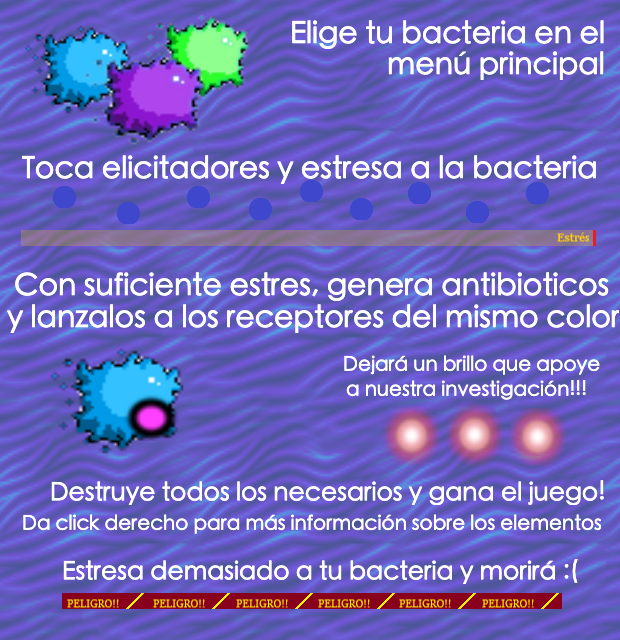
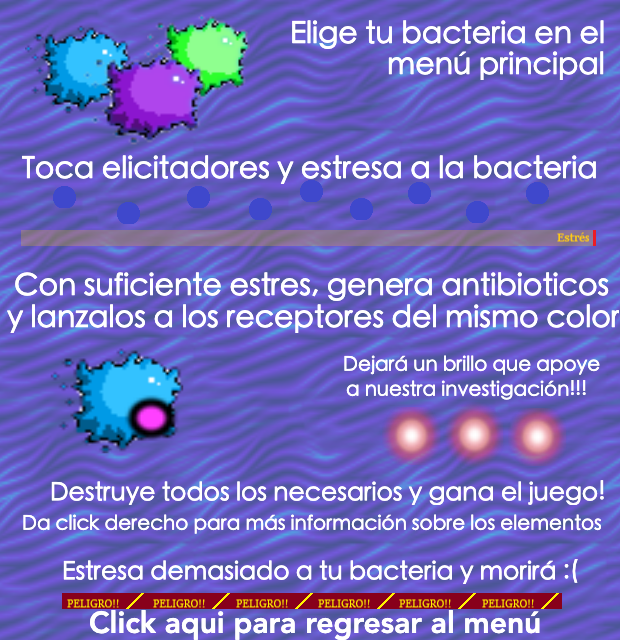
ya sale el tutorial

Changed region(s): [[0.1226, 0.9375, 0.8887, 1.0]]

diff --git a/bacterion/Game.java b/bacterion/Game.java
@@ -57,6 +57,7 @@ public class Game implements Runnable  {
     private boolean finished;
     private boolean startScreen;
     private boolean chooseMenu;
+    private boolean instrucciones;
     
     // to set a delay for the pause button.
     // PAUSE_INTERVAL is the limit (number of frames), pauseStun is the counter.
@@ -111,6 +112,7 @@ public class Game implements Runnable  {
     private void init() {
         startScreen = true;
         chooseMenu = false;
+        instrucciones = false;
         levelSelected = 1;
         display = new Display(title, getWidth(), getHeight());
         display.getJframe().addKeyListener(keyManager);
@@ -449,24 +451,36 @@ public class Game implements Runnable  {
                     }
                 }
                 mouseManager.setIzquierdo(false);
+            } else if (instrucciones) {
+                g.drawImage(Assets.backgroundStartScreenTuto, 0, 0, 640, 640, null);
+                Rectangle volver = new Rectangle (0, height*1/10, 640, 49);
+                if (volver.intersects(mouseManager.getPerimeter())) {
+                    instrucciones = false;
+                }
             } else {
                 g.drawImage(Assets.titleStartScreen, width/2-200, height/4, 401, 57, null);
-                g.drawImage(Assets.jugarStartScreen, width/2-100, height*3/5, 196, 49, null);
-                Rectangle rectJugar = new Rectangle (0, height*3/5, 640, 49);
-                g.drawImage(Assets.eligeBactStartScreen, width/2-250, height*4/5, 505, 47, null);
-                Rectangle eligeBact = new Rectangle (0, height*4/5, 640, 47);
+                g.drawImage(Assets.jugarStartScreen, width/2-100, height*3/6, 196, 49, null);
+                Rectangle rectJugar = new Rectangle (0, height*3/6, 640, 49);
+                g.drawImage(Assets.eligeBactStartScreen, width/2-250, height*4/6, 505, 47, null);
+                Rectangle eligeBact = new Rectangle (0, height*4/6, 640, 47);
+                g.drawImage(Assets.instrucciones, width/2-216, height*5/6, 428, 50, null);
+                Rectangle instr = new Rectangle (0, height*5/6, 640, 50);
 
                 if (rectJugar.intersects(mouseManager.getPerimeter())) {
-                    g.drawImage(Assets.cursorStartScreen, 0, height * 3 / 5, 640, 49, null);
+                    g.drawImage(Assets.cursorStartScreen, 0, height * 3 / 6, 640, 49, null);
                     if (mouseManager.isIzquierdo()) {
                         Assets.start.play();
                         restartVariables();
                         startScreen = false;
                     }
                 } else if (eligeBact.intersects(mouseManager.getPerimeter())) {
-                    g.drawImage(Assets.cursorStartScreen, 0, height*4/5, 640, 49, null);
+                    g.drawImage(Assets.cursorStartScreen, 0, height*4/6, 640, 49, null);
                     if (mouseManager.isIzquierdo())
                         chooseMenu = true;
+                } else if (instr.intersects(mouseManager.getPerimeter())) {
+                    g.drawImage(Assets.cursorStartScreen, 0, height*5/6, 640, 49, null);
+                    if (mouseManager.isIzquierdo())
+                        instrucciones = true;
                 }
             }
             

diff --git a/bacterion/Assets.java b/bacterion/Assets.java
@@ -49,6 +49,7 @@ public class Assets {
     public static BufferedImage eligeBactStartScreen;
     public static BufferedImage cursorStartScreen;
     public static BufferedImage chooseMenu;
+    public static BufferedImage instrucciones;
     
     public static BufferedImage elicitador;
     public static BufferedImage antibiotico;
@@ -99,6 +100,7 @@ public class Assets {
         eligeBactStartScreen = ImageLoader.loadImage("/startscreen/elegirBacteria.png");
         cursorStartScreen = ImageLoader.loadImage("/startscreen/cursor.png");
         chooseMenu = ImageLoader.loadImage("/startscreen/chooseMenu.png");
+        instrucciones = ImageLoader.loadImage("/startscreen/instrucciones.png");
         
         elicitador = ImageLoader.loadImage("/images/elicitador_placeholder.png");
         antibiotico = ImageLoader.loadImage("/images/antibiotico_placeholder.png");
